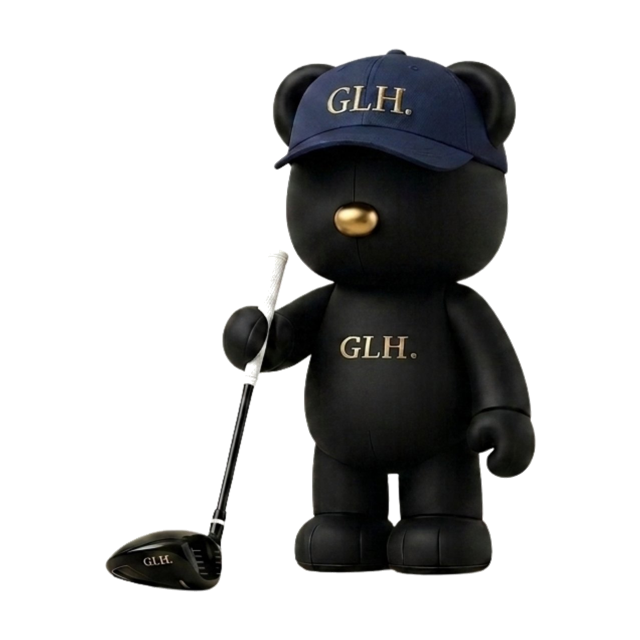
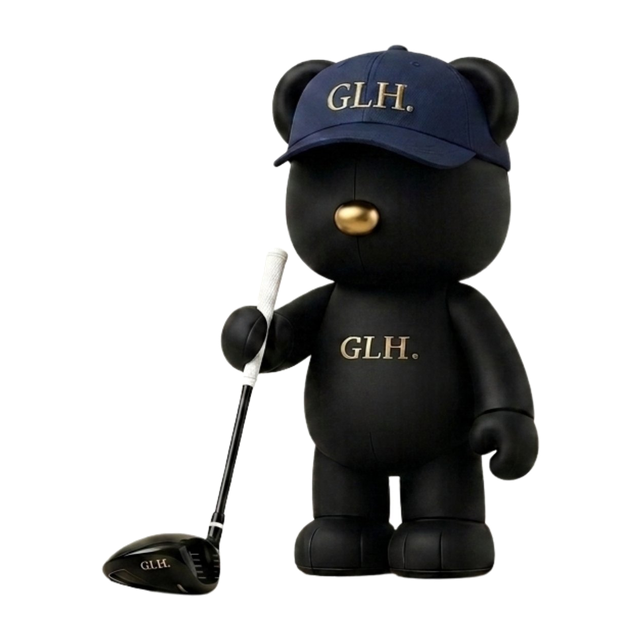
fix: ゴルファー画像差し替え＋バナーサブテキスト2行化
- bear-ivory-golf.png / bear-black-golf.png をバイザーギザつき解消版に差し替え (chmod 644)
- フレンドを探すバナーのサブテキストを2行・かな表記に変更

diff --git a/src/app/(app)/home/page.tsx b/src/app/(app)/home/page.tsx
@@ -696,7 +696,7 @@ export default function HomePage() {
                 pointerEvents:'none', filter:'drop-shadow(0 6px 12px rgba(0,0,0,.3))' }} />
             <div style={{paddingTop:36, position:'relative', zIndex:3, maxWidth:'56%'}}>
             <div style={{fontSize:20,fontWeight:600,color:'#F5F3EE',marginBottom:6,lineHeight:1.2}}>フレンドを探す</div>
-            <div style={{fontSize:11,color:'rgba(245,243,238,.58)',marginBottom:18,lineHeight:1.6,fontWeight:300}}>独自アルゴリズムで相性の良いゴルファーと繋がる</div>
+            <div style={{fontSize:11,color:'rgba(245,243,238,.58)',marginBottom:18,lineHeight:1.7,fontWeight:300}}>独自アルゴリズムで<br />相性の良いゴルファーとつながる</div>
             <button style={{display:'inline-flex',alignItems:'center',gap:8,background:'linear-gradient(135deg,#D4AA6A,#C49A50)',border:'none',borderRadius:100,padding:'10px 20px',fontFamily:'Inter',fontSize:11,fontWeight:600,letterSpacing:'.12em',color:'#17372D',cursor:'pointer',boxShadow:'0 4px 14px rgba(196,154,80,.35)'}}>
               VIEW MATCHES
               <svg width="12" height="12" viewBox="0 0 24 24" fill="none" stroke="#17372D" strokeWidth="2.5"><line x1="5" y1="12" x2="19" y2="12"/><polyline points="12,5 19,12 12,19"/></svg>
